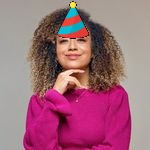
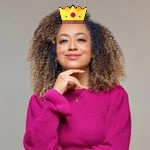
random enfeites

Changed region(s): [[0.3733, 0.0, 0.6133, 0.2667]]

diff --git a/faceDetection.py b/faceDetection.py
@@ -1,6 +1,7 @@
 import cv2
 import os
 import glob
+import random
 
 face_classifier = cv2.CascadeClassifier('data/haarcascades/haarcascade_frontalface_default.xml')
 eye_classifier = cv2.CascadeClassifier('data/haarcascades/haarcascade_eye.xml')
@@ -64,9 +65,11 @@ def detect_fullbody(img):
 
     return fullbody_img
 
-object_img = cv2.imread('enfeites/chapeu2.png', cv2.IMREAD_UNCHANGED) #para verificar a transparencia
+#caminho das imagens de enfeites
+images_enfeite = 'enfeites'
+enfeites_folder = glob.glob(os.path.join(images_enfeite, '*'))
 
-# Specify the directory containing images
+#caminho das imagens do insta
 image_folder = 'images'
 output_folder = 'happyBirthday'
 os.makedirs(output_folder, exist_ok=True)
@@ -77,8 +80,11 @@ image_files = glob.glob(os.path.join(image_folder, '*'))
 # Loop through each image file
 for image_file in image_files:
     print(f"Change image: {image_file}")
-
     img = cv2.imread(image_file)
+
+    #escolher um enfeite para cada imagem
+    enfeites_random = random.choice(enfeites_folder)
+    object_img = cv2.imread(enfeites_random, cv2.IMREAD_UNCHANGED) #para verificar a transparencia
 
     face_detection = detect_faces(img)
     img_object = object_above_head(img, face_detection, object_img)
